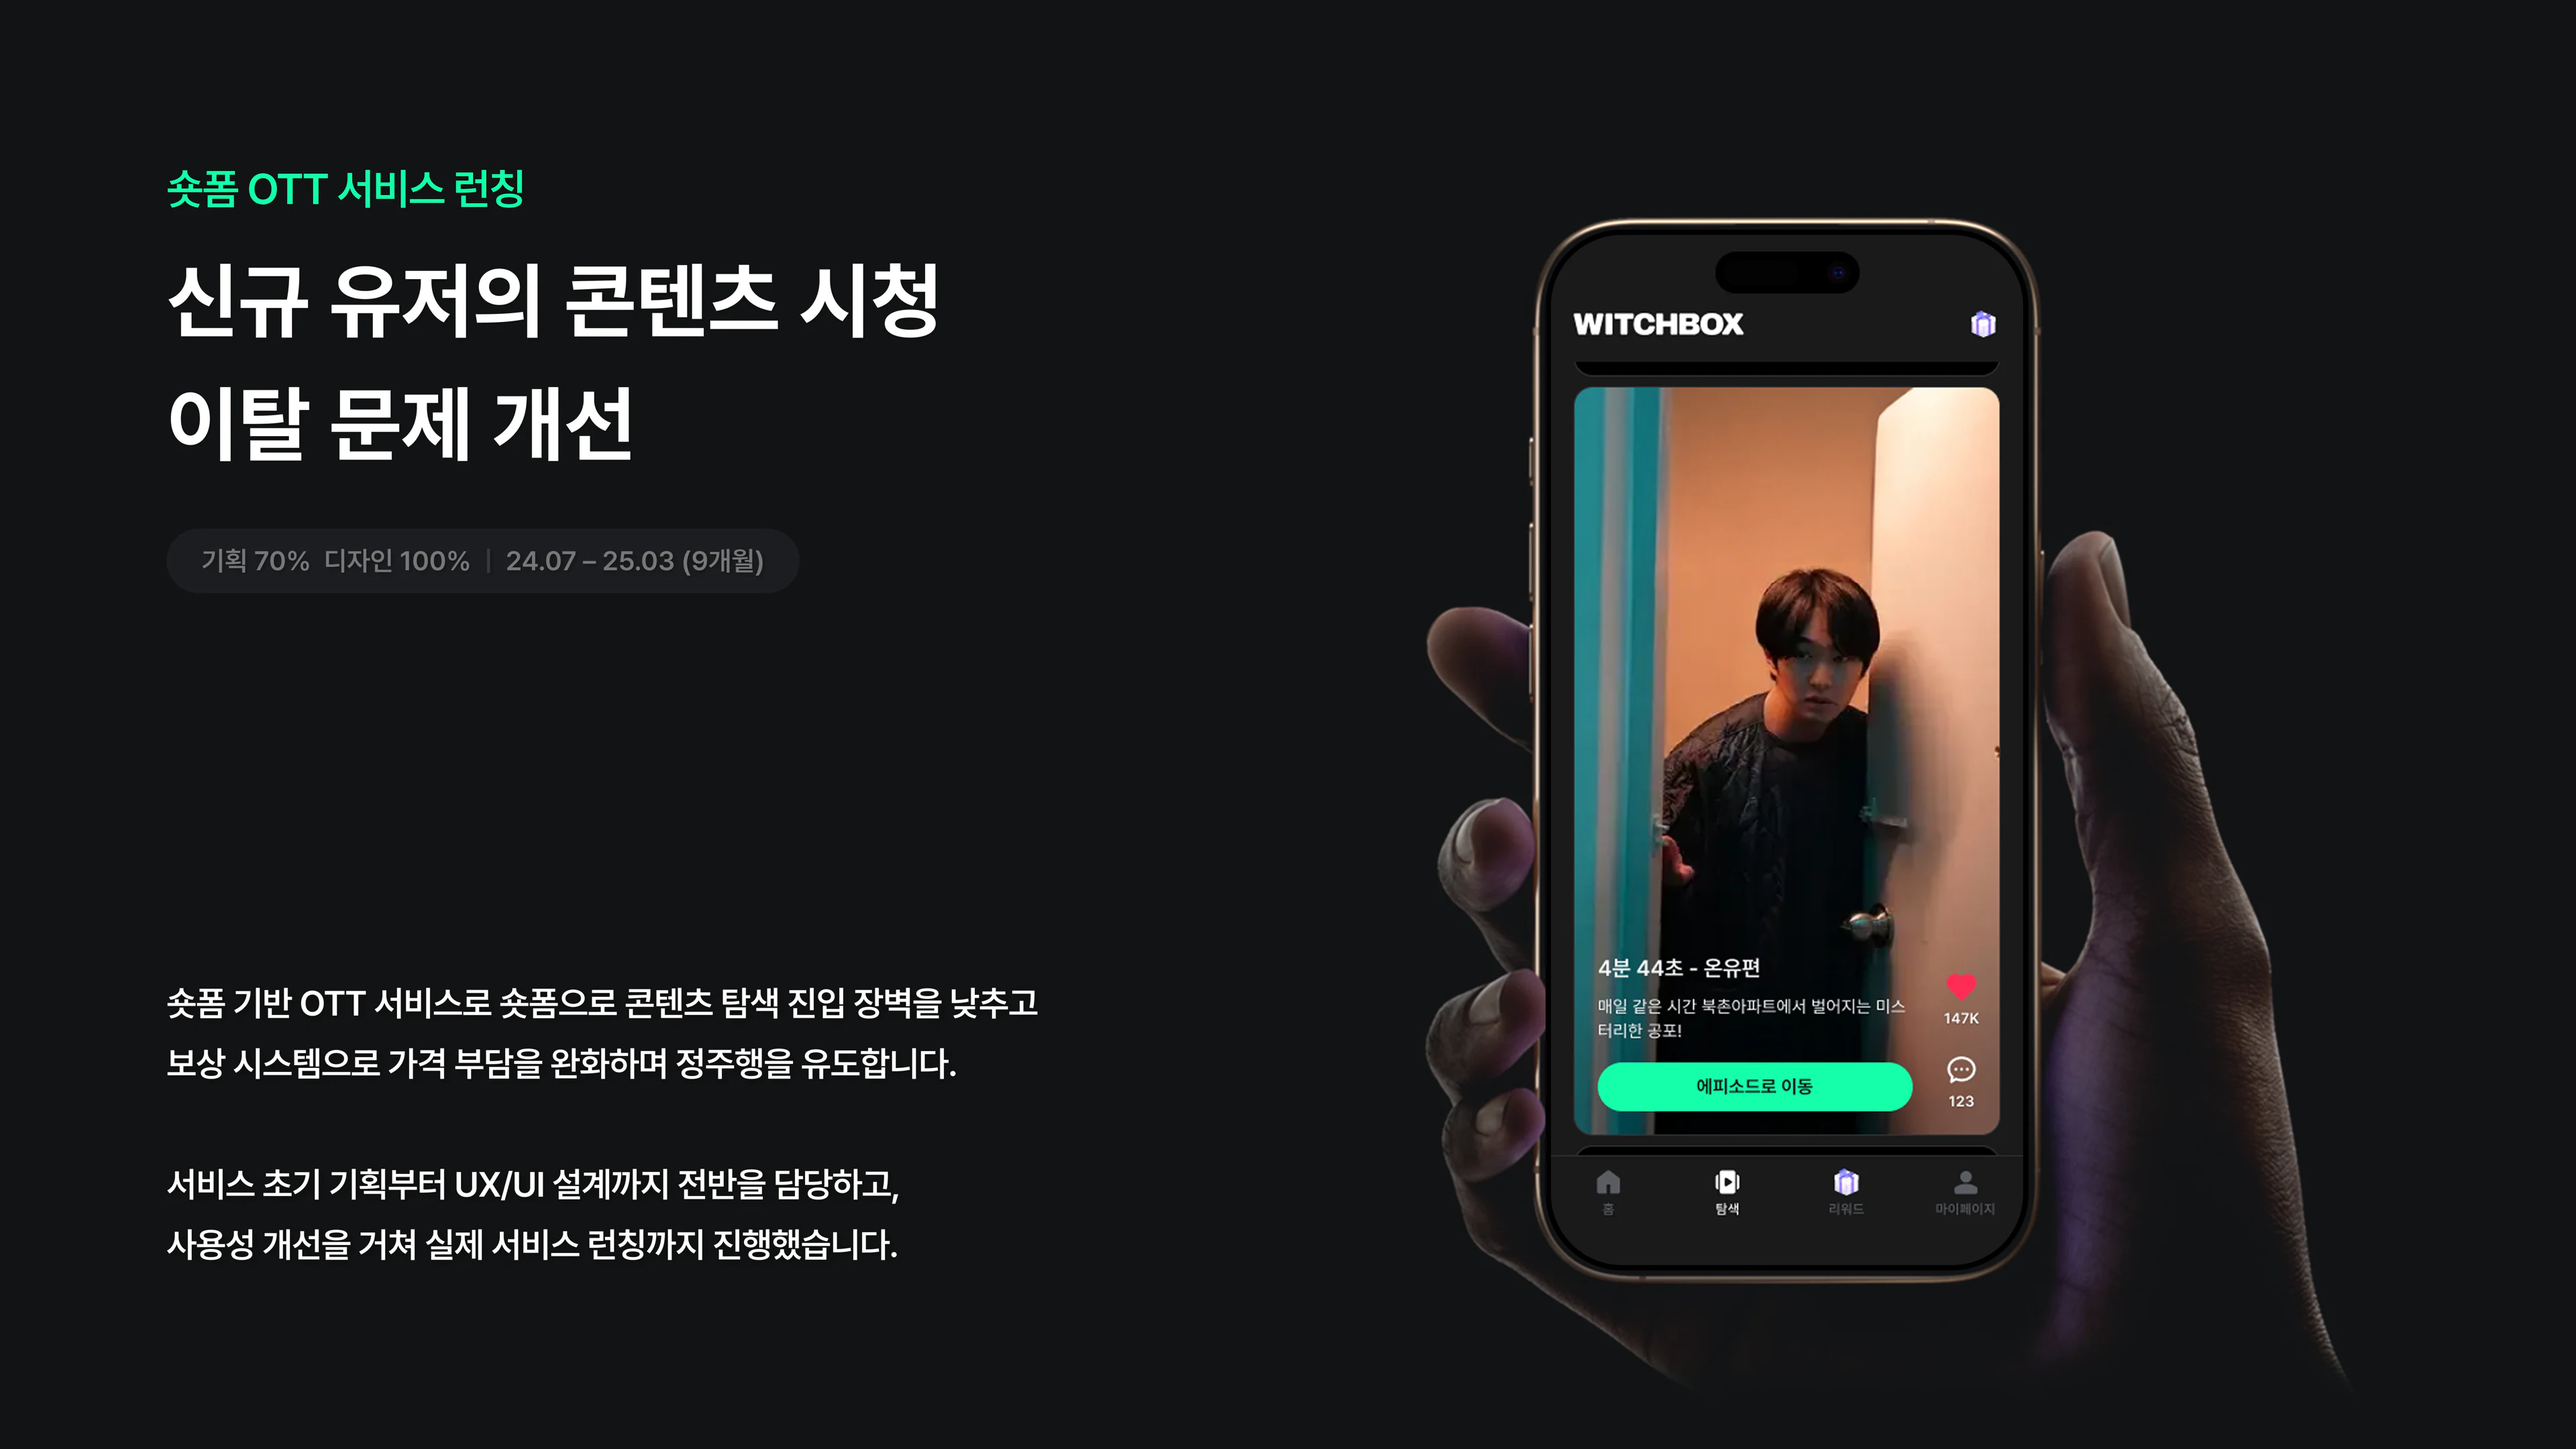
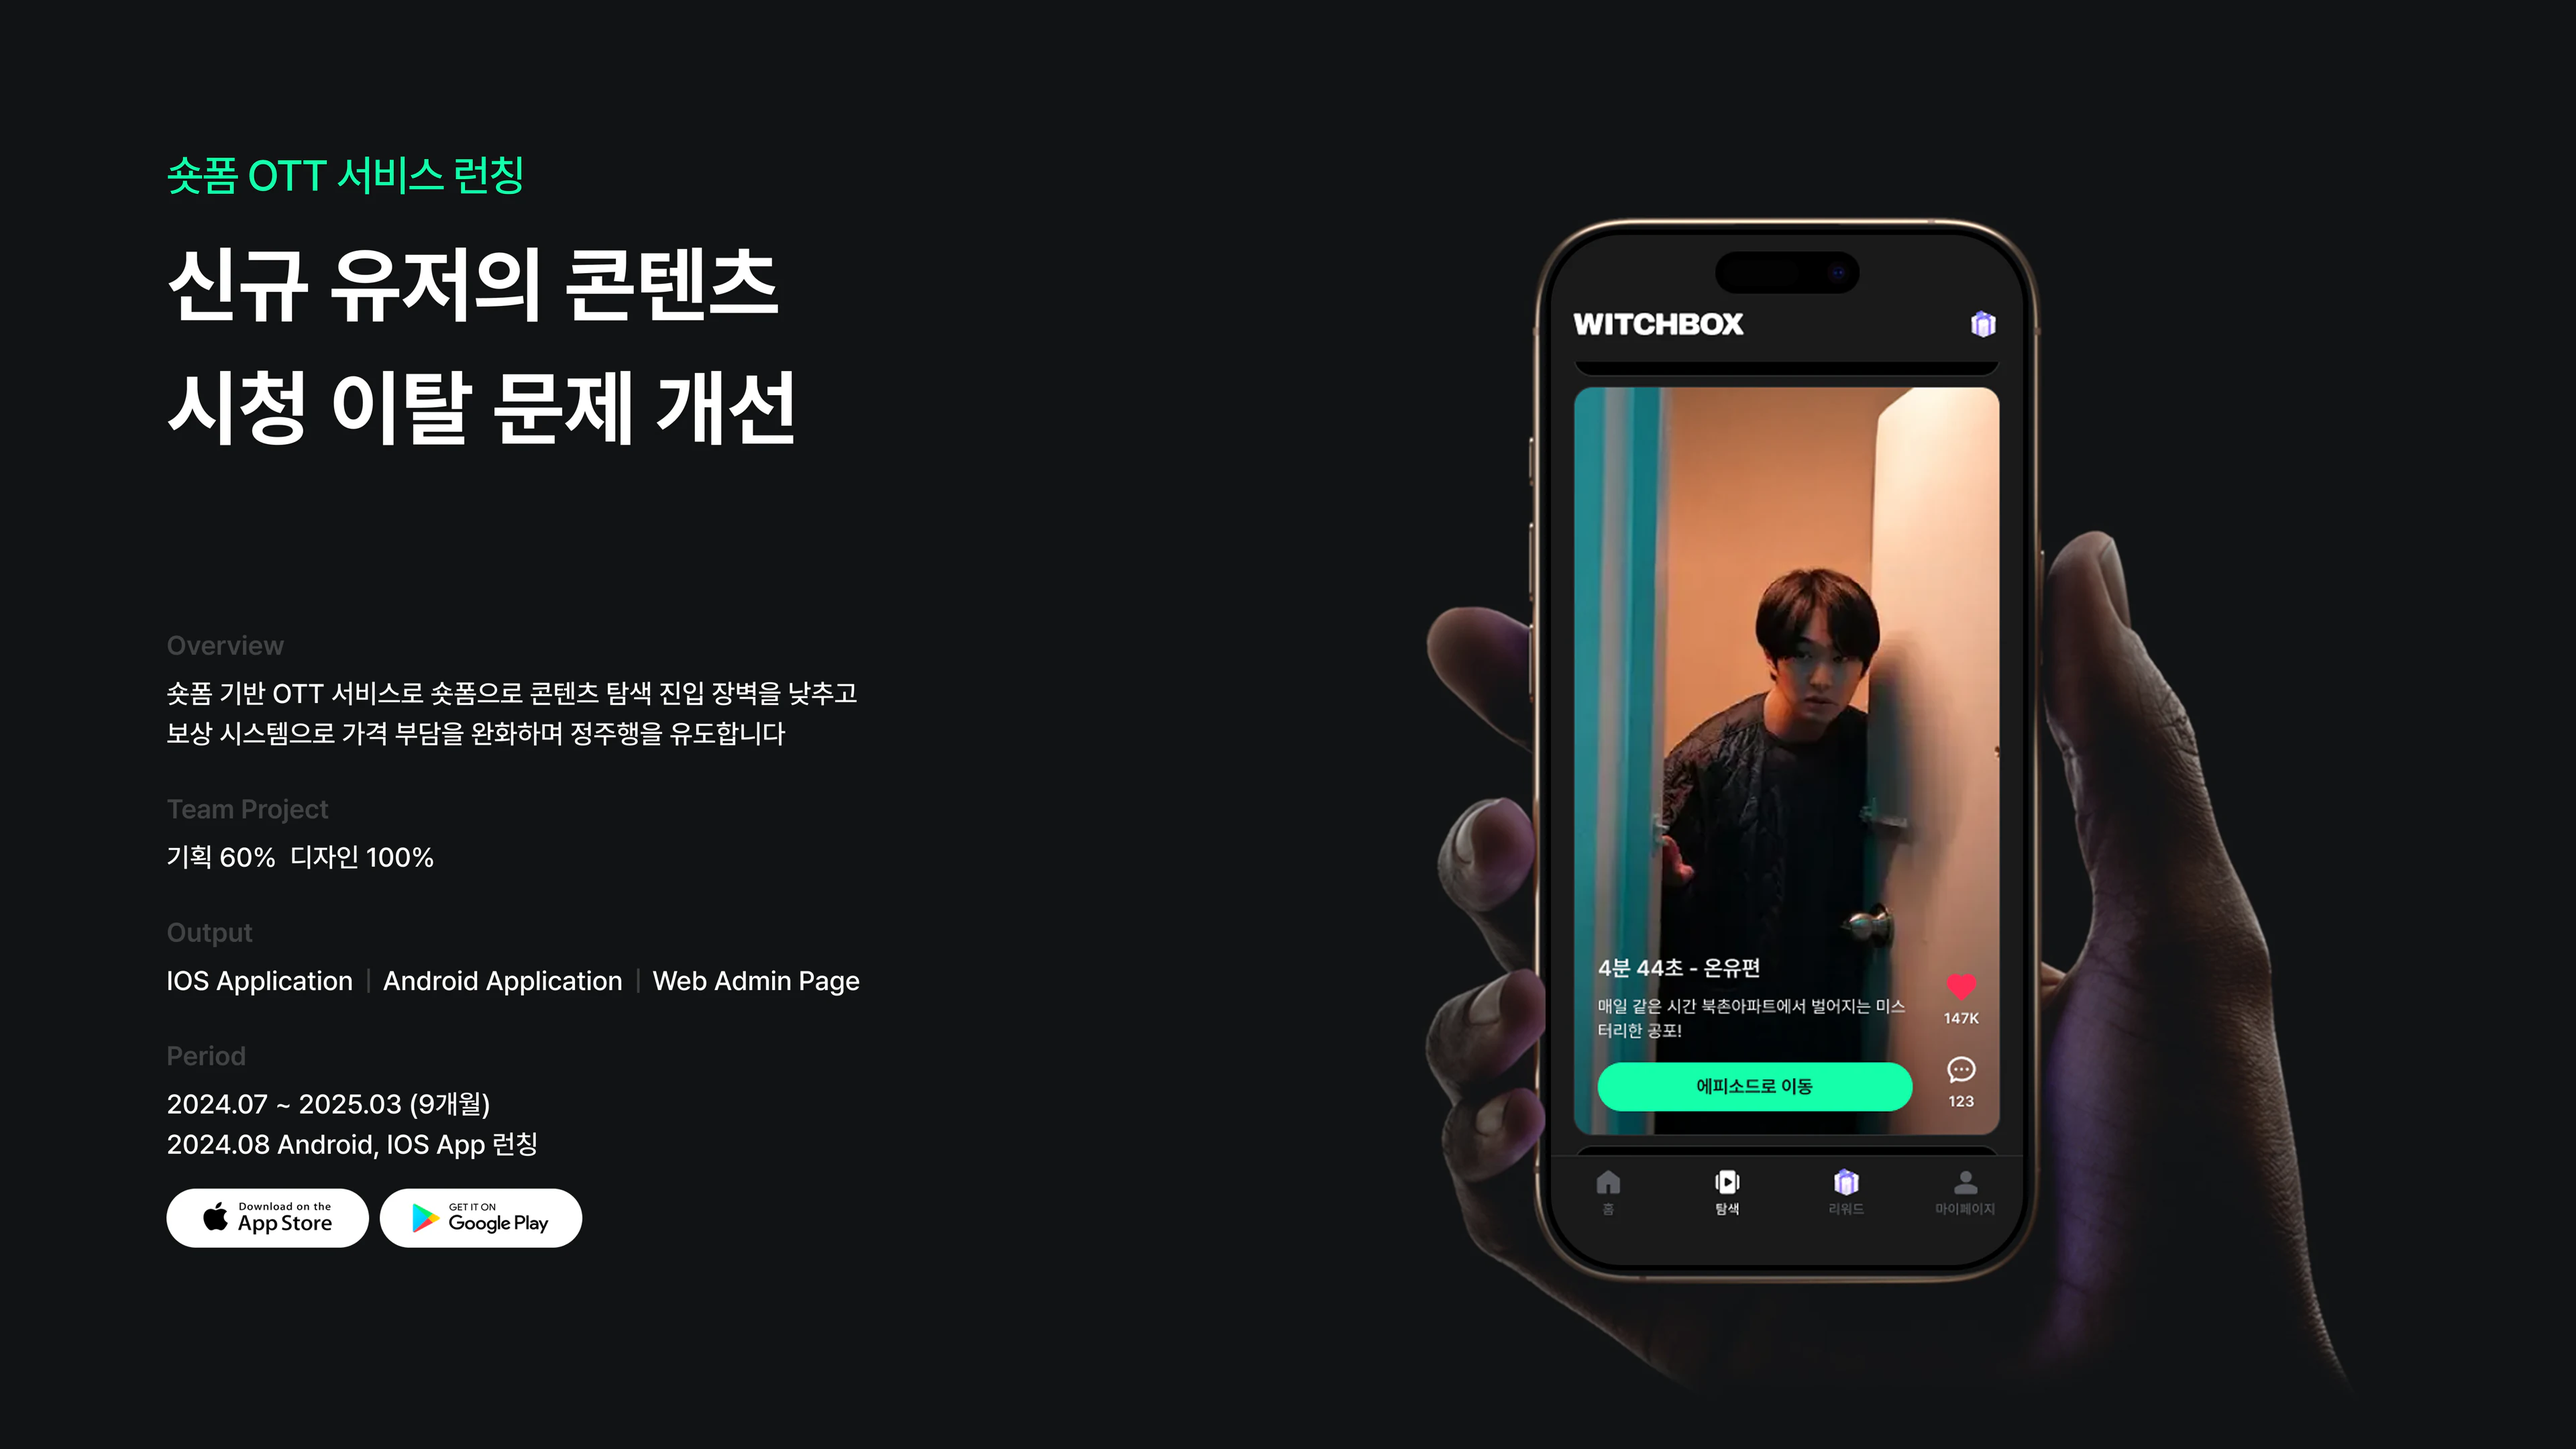
03·04 영역 1번 슬라이드를 신규 PNG 기준으로 교체
- 새 7680x4320 PNG 를 3840px WebP(q88, sharp_yuv) 로 변환해 교체
- 변환 손실 0.000% (최대 채널차 03:7, 04:9)
- 용량은 각각 0.14MB / 0.26MB 로 기존과 동일 수준이라 로딩 영향 없음
- 01·02 영역과 나머지 슬라이드는 손대지 않음
- 캐시 버전 20261014b

diff --git a/index.html b/index.html
@@ -26,7 +26,7 @@
 <link rel="preconnect" href="https://fonts.gstatic.com" crossorigin>
 <link href="https://fonts.googleapis.com/css2?family=Rethink+Sans:wght@500;600;700&family=Figtree:wght@400&family=Playfair+Display:wght@400;500&display=swap" rel="stylesheet">
 <link rel="stylesheet" href="https://cdn.jsdelivr.net/gh/orioncactus/pretendard@v1.3.9/dist/web/variable/pretendardvariable-dynamic-subset.min.css">
-<link rel="stylesheet" href="assets/css/styles.css?v=20261014a">
+<link rel="stylesheet" href="assets/css/styles.css?v=20261014b">
 </head>
 <body>
 
@@ -94,7 +94,7 @@
     <!-- ---------- HERO — Figma 원본 전체를 PNG 한 장으로 표시 ---------- -->
     <section class="hero full-bleed" id="home" aria-label="표지">
       <img class="hero__cover"
-           src="assets/img/main-cover.png?v=20261014a"
+           src="assets/img/main-cover.png?v=20261014b"
            alt="2026 Portfolio — Product Design"
            fetchpriority="high"
            decoding="async">
@@ -102,13 +102,13 @@
 
     <!-- ---------- RESUME / 이력서 ---------- -->
     <section class="resume full-bleed" id="profile">
-      <img src="assets/img/resume.png?v=20261014a" alt="신동주 이력서">
+      <img src="assets/img/resume.png?v=20261014b" alt="신동주 이력서">
     </section>
 
     <!-- ---------- INDEX — 완성 PNG 1장 + 투명 클릭 영역 ---------- -->
     <section class="index full-bleed" id="index" aria-label="프로젝트 목차">
       <div class="index__frame">
-        <img class="index__cover" src="assets/img/index.png?v=20261014a"
+        <img class="index__cover" src="assets/img/index.png?v=20261014b"
              alt="Index — 01 학원 ERP 서비스 고도화, 02 시니어 AI 케어 서비스 기획, 03 숏폼 OTT 서비스 런칭, 04 케이크 주문 서비스 구축"
              width="7680" height="4320" decoding="async">
         <a class="index__hit index__hit--01" href="#project-01" aria-label="학원 ERP 서비스 고도화 프로젝트로 이동"></a>
@@ -169,6 +169,6 @@
   </div>
 </div>
 
-<script src="assets/js/main.js?v=20261014a"></script>
+<script src="assets/js/main.js?v=20261014b"></script>
 </body>
 </html>

diff --git a/assets/js/main.js b/assets/js/main.js
@@ -70,7 +70,7 @@
      (CSS/JS 의 ?v= 와 같은 역할)
      경로 자체에는 붙이지 않는다 — 확장자 추출이나 존재 확인이 쿼리에
      오염되면 안 되므로, <img src> 에 실을 때만 versioned() 로 감싼다. */
-  var ASSET_VERSION = '20261014a';
+  var ASSET_VERSION = '20261014b';
   function slidePath(key, n, ext) { return 'assets/slides/' + key + '/' + pad(n) + '.' + ext; }
   function versioned(src) { return src + '?v=' + ASSET_VERSION; }
 
